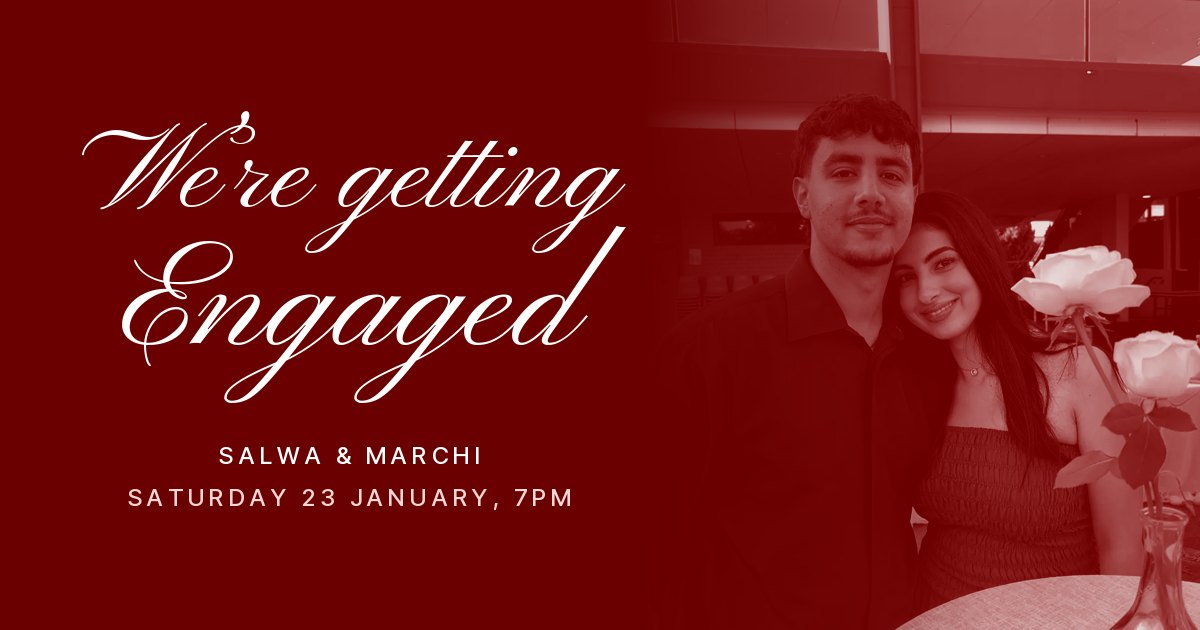
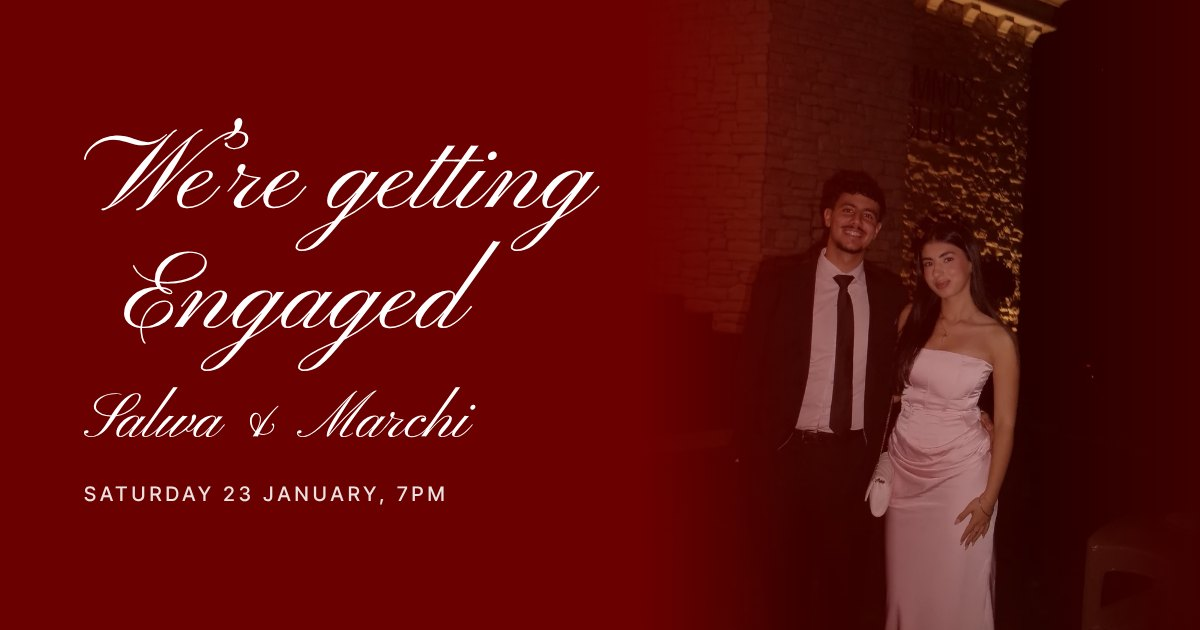
Review fixes: small-phone opening, font wait, left-aligned story text, link preview photo, form sizing
- Opening fits short phone screens (iPhone SE/mini, bars showing): tighter spacing, no swipe cue
- The opening waits up to 2.5s for the script font so the title never writes in a fallback face
- Story paragraphs left-aligned for easier reading; titles stay centred
- Link preview image uses the formal-night photo
- Inputs at least 44px tall; send hint no longer 10px

Claude-Session: https://claude.ai/code/session_011x3PtGsHMNbh1NxkygX3zw

diff --git a/site.css b/site.css
@@ -96,6 +96,13 @@ html.light-chapters .card { box-shadow: 0 -18px 40px -16px rgba(25, 0, 0, .35); 
 .shot.names .caps { max-width: 28ch; }
 /* On a tall phone screen, a window between the title and our names, so our faces show between the words. */
 @media (max-aspect-ratio: 1/1) { .shot.names { margin-top: 13svh; } }
+/* Short phone screens (iPhone SE, mini, or any phone with its browser bars showing): tighten the opening so the
+   date never meets the RSVP button, and drop the swipe cue, which has no room there. */
+@media (max-aspect-ratio: 1/1) and (max-height: 700px) {
+  .stage { gap: clamp(18px, 4svh, 40px); }
+  .shot.names { margin-top: 7svh; }
+  .cue { display: none; }
+}
 .cue { position: absolute; left: 0; right: 0; bottom: max(28px, env(safe-area-inset-bottom)); text-align: center; color: var(--ink-dim); }
 .cue::after { content: ""; display: block; width: 1px; height: 34px; margin: 12px auto 0; background: var(--ink-faint); transform-origin: 50% 0; animation: cue 2.4s var(--ease-out) infinite; }
 @keyframes cue { 0% { transform: scaleY(0); } 55% { transform: scaleY(1); opacity: 1; } 100% { transform: scaleY(1); opacity: 0; } }
@@ -105,6 +112,8 @@ html.light-chapters .card { box-shadow: 0 -18px 40px -16px rgba(25, 0, 0, .35); 
 .chapter-head { display: flex; flex-direction: column; align-items: center; gap: 12px; }
 .chapter-head .script { font-size: clamp(3.3rem, 14vw, 6.2rem); line-height: 1; }
 .chapter-text { display: flex; flex-direction: column; align-items: center; gap: 22px; }
+/* Running story text reads left-aligned; titles and short lines stay centred. */
+.chapter .chapter-text .body { text-align: left; width: 100%; }
 .frame { position: relative; overflow: hidden; background: var(--red-deep); margin: 0; }
 .frame img { width: 100%; height: 100%; object-fit: cover; }
 
@@ -201,7 +210,7 @@ html.has-intros .chapter-intro { display: flex; }
 .field label { color: var(--ink-dim); }
 .select, .notes, .line {
   width: min(100%, 300px); background: transparent; border: 0; border-bottom: 1px solid var(--ink-faint); border-radius: 0;
-  padding: 10px 4px; text-align: center; text-align-last: center; font-size: 1rem; color: var(--ink);
+  padding: 10px 4px; text-align: center; text-align-last: center; font-size: 1rem; color: var(--ink); min-height: 44px;
 }
 .select {
   appearance: none; -webkit-appearance: none; cursor: pointer; padding-right: 28px; padding-left: 28px;
@@ -219,7 +228,7 @@ html.has-intros .chapter-intro { display: flex; }
 }
 .send:active { transform: scale(.98); }
 .send[disabled] { opacity: .5; cursor: default; }
-.send-hint { margin-top: -6px; font-size: .62rem; color: var(--ink-dim); }
+.send-hint { margin-top: -6px; font-size: .72rem; color: var(--ink-dim); }
 .form-note { min-height: 1.7em; color: var(--ink-dim); max-width: 32ch; }
 .sent { display: flex; flex-direction: column; align-items: center; gap: 18px; }
 .sent .script { font-size: clamp(3.6rem, 16vw, 5rem); }

diff --git a/index.html b/index.html
@@ -21,7 +21,7 @@
 <link rel="preconnect" href="https://fonts.googleapis.com">
 <link rel="preconnect" href="https://fonts.gstatic.com" crossorigin>
 <link rel="stylesheet" href="https://fonts.googleapis.com/css2?family=Pinyon+Script&family=Inter+Tight:wght@400;500&display=swap">
-<link rel="stylesheet" href="site.css?v=20261101c">
+<link rel="stylesheet" href="site.css?v=20261110a">
 <link rel="preload" as="image" href="img/hero.webp" type="image/webp">
 <script>if (matchMedia('(prefers-reduced-motion: reduce)').matches) document.documentElement.classList.add('still');</script>
 </head>
@@ -222,9 +222,9 @@
 <noscript><style>.opening{height:auto;overflow:visible}.stage{position:relative;display:flex;flex-direction:column;align-items:center;gap:64px;padding:96px 0 120px}.shot{position:relative;left:auto;right:auto}.stage-photo{opacity:.3;transform:none}.cue,.rsvp{display:none}</style></noscript>
 
 <script>window.INVITE_API = "https://script.google.com/macros/s/AKfycbyXw-FnCLkgx0gt2g6J_ruytb4UaQPxYEEH2P3NqGbOSZgEBHZpEUOyTbIq98692Am1JQ/exec";</script>
-<script src="guests.js?v=20261101c"></script>
+<script src="guests.js?v=20261110a"></script>
 <script src="vendor/gsap.min.js"></script>
 <script src="vendor/ScrollTrigger.min.js"></script>
-<script src="site.js?v=20261101c"></script>
+<script src="site.js?v=20261110a"></script>
 </body>
 </html>

diff --git a/site.js b/site.js
@@ -338,7 +338,9 @@
       .to('#cue', { autoAlpha: 1, y: 0, duration: 1, ease: 'expo.out' }, 5.6);
   }
   // Start as soon as the name is known; if the name is slow, start anyway after a moment.
-  Promise.race([named, new Promise(r => setTimeout(r, 1500))]).then(() => setTimeout(playOpening, 250));
+  // The title is handwritten in a web font: wait for it (briefly), so it never writes itself in a fallback face.
+  const fontsIn = document.fonts ? Promise.race([document.fonts.load('1em "Pinyon Script"'), new Promise(r => setTimeout(r, 2500))]) : Promise.resolve();
+  Promise.all([Promise.race([named, new Promise(r => setTimeout(r, 1500))]), fontsIn]).then(() => setTimeout(playOpening, 250));
 
   /* ---------- The stack: each card holds while the next slides over it ---------- */
 
